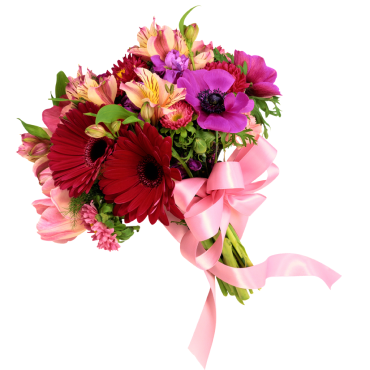
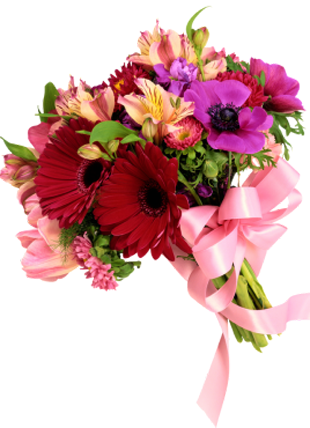
feature flower design and responsive max 1440px colpleted now

diff --git a/css/flower.css b/css/flower.css
@@ -7,7 +7,6 @@
 .top-banner{
     width: 100%;
     height: 100vh;
-    /* background-color: var(--bg-primary); */
     background-color: var(--bg-primary);
 }
 .section-wrapper{
@@ -31,12 +30,50 @@
 }
 /* --------------------top banner style end here----------------- */
 
+/* --------------------featured flowers style start here----------------- */
+.featured-flower-card{
+    display: flex;
+    justify-content: space-between;
+    align-items: center;
+    text-align: center;
+}
+.card{
+    width: 350px;
+    min-height: 100%;
+    border-radius: 300px 300px 0 0 / 300px 300px 0 0;
+}
+.card-1{
+    background-color: rgba(167, 33, 98, 0.15);
+}
+.card-2{
+    background-color: rgba(5, 151, 160, 0.15);
+}
+.card-3{
+    background-color: rgba(71, 125, 17, 0.15);
+}
+.card img{
+    width: 100%;
+    height: auto;
+    padding: 20px 40px 0px;
+    object-fit: cover;
+}
+.flower-name{
+    margin-top: 32px;
+    font-weight: bold;
+    font-size: 24px;
+}
+/* --------------------featured flowers style end here----------------- */
+
 /* Responsive for small devices */
 @media screen and (max-width: 575px) {
     .section-inner{
         padding: 50px 30px;
     }
-    .section-wrapper{
+    .top-banner{
+        height: auto;
+    }
+    .section-wrapper,
+    .featured-flower-card{
         flex-direction: column;
         gap: 50px;
     }
@@ -48,7 +85,18 @@
         color: var(--text-primary);
         font-size: 2rem;
     }
+    .btn{
+        display: block;
+        margin: 0 auto;
+    }
     /* banner section responsive end here */
+    .section-title{
+        margin-top: 50px;
+    }
+    .card{
+        width: 320px;
+    }
+    /* featured flower  section responsive end here */
     
 }
 /* Responsive for medium devices */
@@ -56,9 +104,13 @@
     .section-inner{
         padding: 50px 30px;
     }
-    .section-wrapper{
-        flex-direction: row;
-        gap: 30px;
+    .top-banner{
+        height: auto;
+    }
+    .section-wrapper,
+    .featured-flower-card{
+        flex-direction: column;
+        gap: 50px;
     }
     .banner-title{
         font-weight: 800;
@@ -66,5 +118,76 @@
         font-size: 2.1rem;
     }
     /* banner section responsive end here */
+     .section-title{
+        margin-top: 50px;
+    }
+    .card{
+        width: 350px;
+        min-height: 100%;
+        border-radius: 300px 300px 0 0 / 300px 300px 0 0;
+    }
+    /* featured flower  section responsive end here */
+}
+/* Responsive for large devices */
+@media screen and (min-width: 768.99px) and (max-width: 992px){
+    .section-inner{
+        padding: 50px 70px;
+    }
+    .top-banner{
+        height: auto;
+    }
+    .section-wrapper{
+        display: grid;
+        grid-template-columns: repeat(2, 1fr);
+        gap: 10px;
+    }
+    .banner-title{
+        font-size: 2rem;
+    }
+    /* banner section responsive end here */
     
+    .featured-flower-card{
+        display: flex;
+        flex-direction: column;
+        gap: 50px;
+    }
+    .section-title{
+        margin-top: 50px;
+    }
+    .card{
+        width: 350px;
+    }
+    /* featured flower  section responsive end here */
+}
+@media screen and (min-width: 992.99px) and (max-width: 1400px){
+
+    .section-inner{
+        padding: 50px 70px;
+    }
+    .top-banner{
+        height: auto;
+    }
+    .section-wrapper{
+        display: grid;
+        grid-template-columns: repeat(2, 1fr);
+        gap: 10px;
+    }
+    .banner-title{
+        font-size: 2rem;
+    }
+    /* banner section responsive end here */
+    
+    .featured-flower-card{
+        display: grid;
+        grid-template-columns: repeat(3, 1fr);
+        gap: 15px;
+    }
+    .section-title{
+        margin-top: 50px;
+    }
+    .card{
+        width: 280px;
+        margin: 0 auto;
+    }
+    /* featured flower  section responsive end here */
 }

diff --git a/index.html b/index.html
@@ -21,7 +21,33 @@
             </div>
         </div>
     </header>
-    <main></main>
+    <main>
+        <section class="featured-flowers">
+            <h1 class="section-title">Our Featured Flowers</h1>
+            <p class="section-description text-center">It is a long established fact that a reader will be distracted by the readable content of a page when looking at its layout.</p>
+            <div class="featured-flower-card section-inner">
+                <div class="card-body">
+                    <div class="card card-1">
+                        <img src="./asset/pngwing 6.png" alt="">
+                    </div>
+                    <p class="flower-name">Pink Flower Tree</p>
+                </div>
+                <div class="card-body">
+                    <div class="card card-2">
+                        <img src="./asset/pngwing 5.png" alt="">
+                    </div>
+                    <p class="flower-name">Pink Flower Tree</p>
+                </div>
+                <div class="card-body">
+                    <div class="card card-3">
+                        <img src="./asset/pngwing 7.png" alt="">
+                    </div>
+                    <p class="flower-name">Pink Flower Tree</p>
+                </div>
+            </div>
+        </section>
+        <!-- featured flower section mark up end here -->
+    </main>
     <footer></footer>
 </body>
 </html>

diff --git a/css/custom.css b/css/custom.css
@@ -15,6 +15,9 @@
     --bg-light-gray: rgba(39, 39, 39, 0.05);
     --bg-light: #fff;
 }
+.text-center{
+    text-align: center;
+}
 .section-inner{
     max-width: 1440px;
     padding: 50px 100px;
@@ -25,6 +28,7 @@
     font-size: 2.5rem;
     text-align: center;
     font-weight: 800;
+    margin-top: 180px;
 }
 .section-description{
     font-size: 1.125rem;
